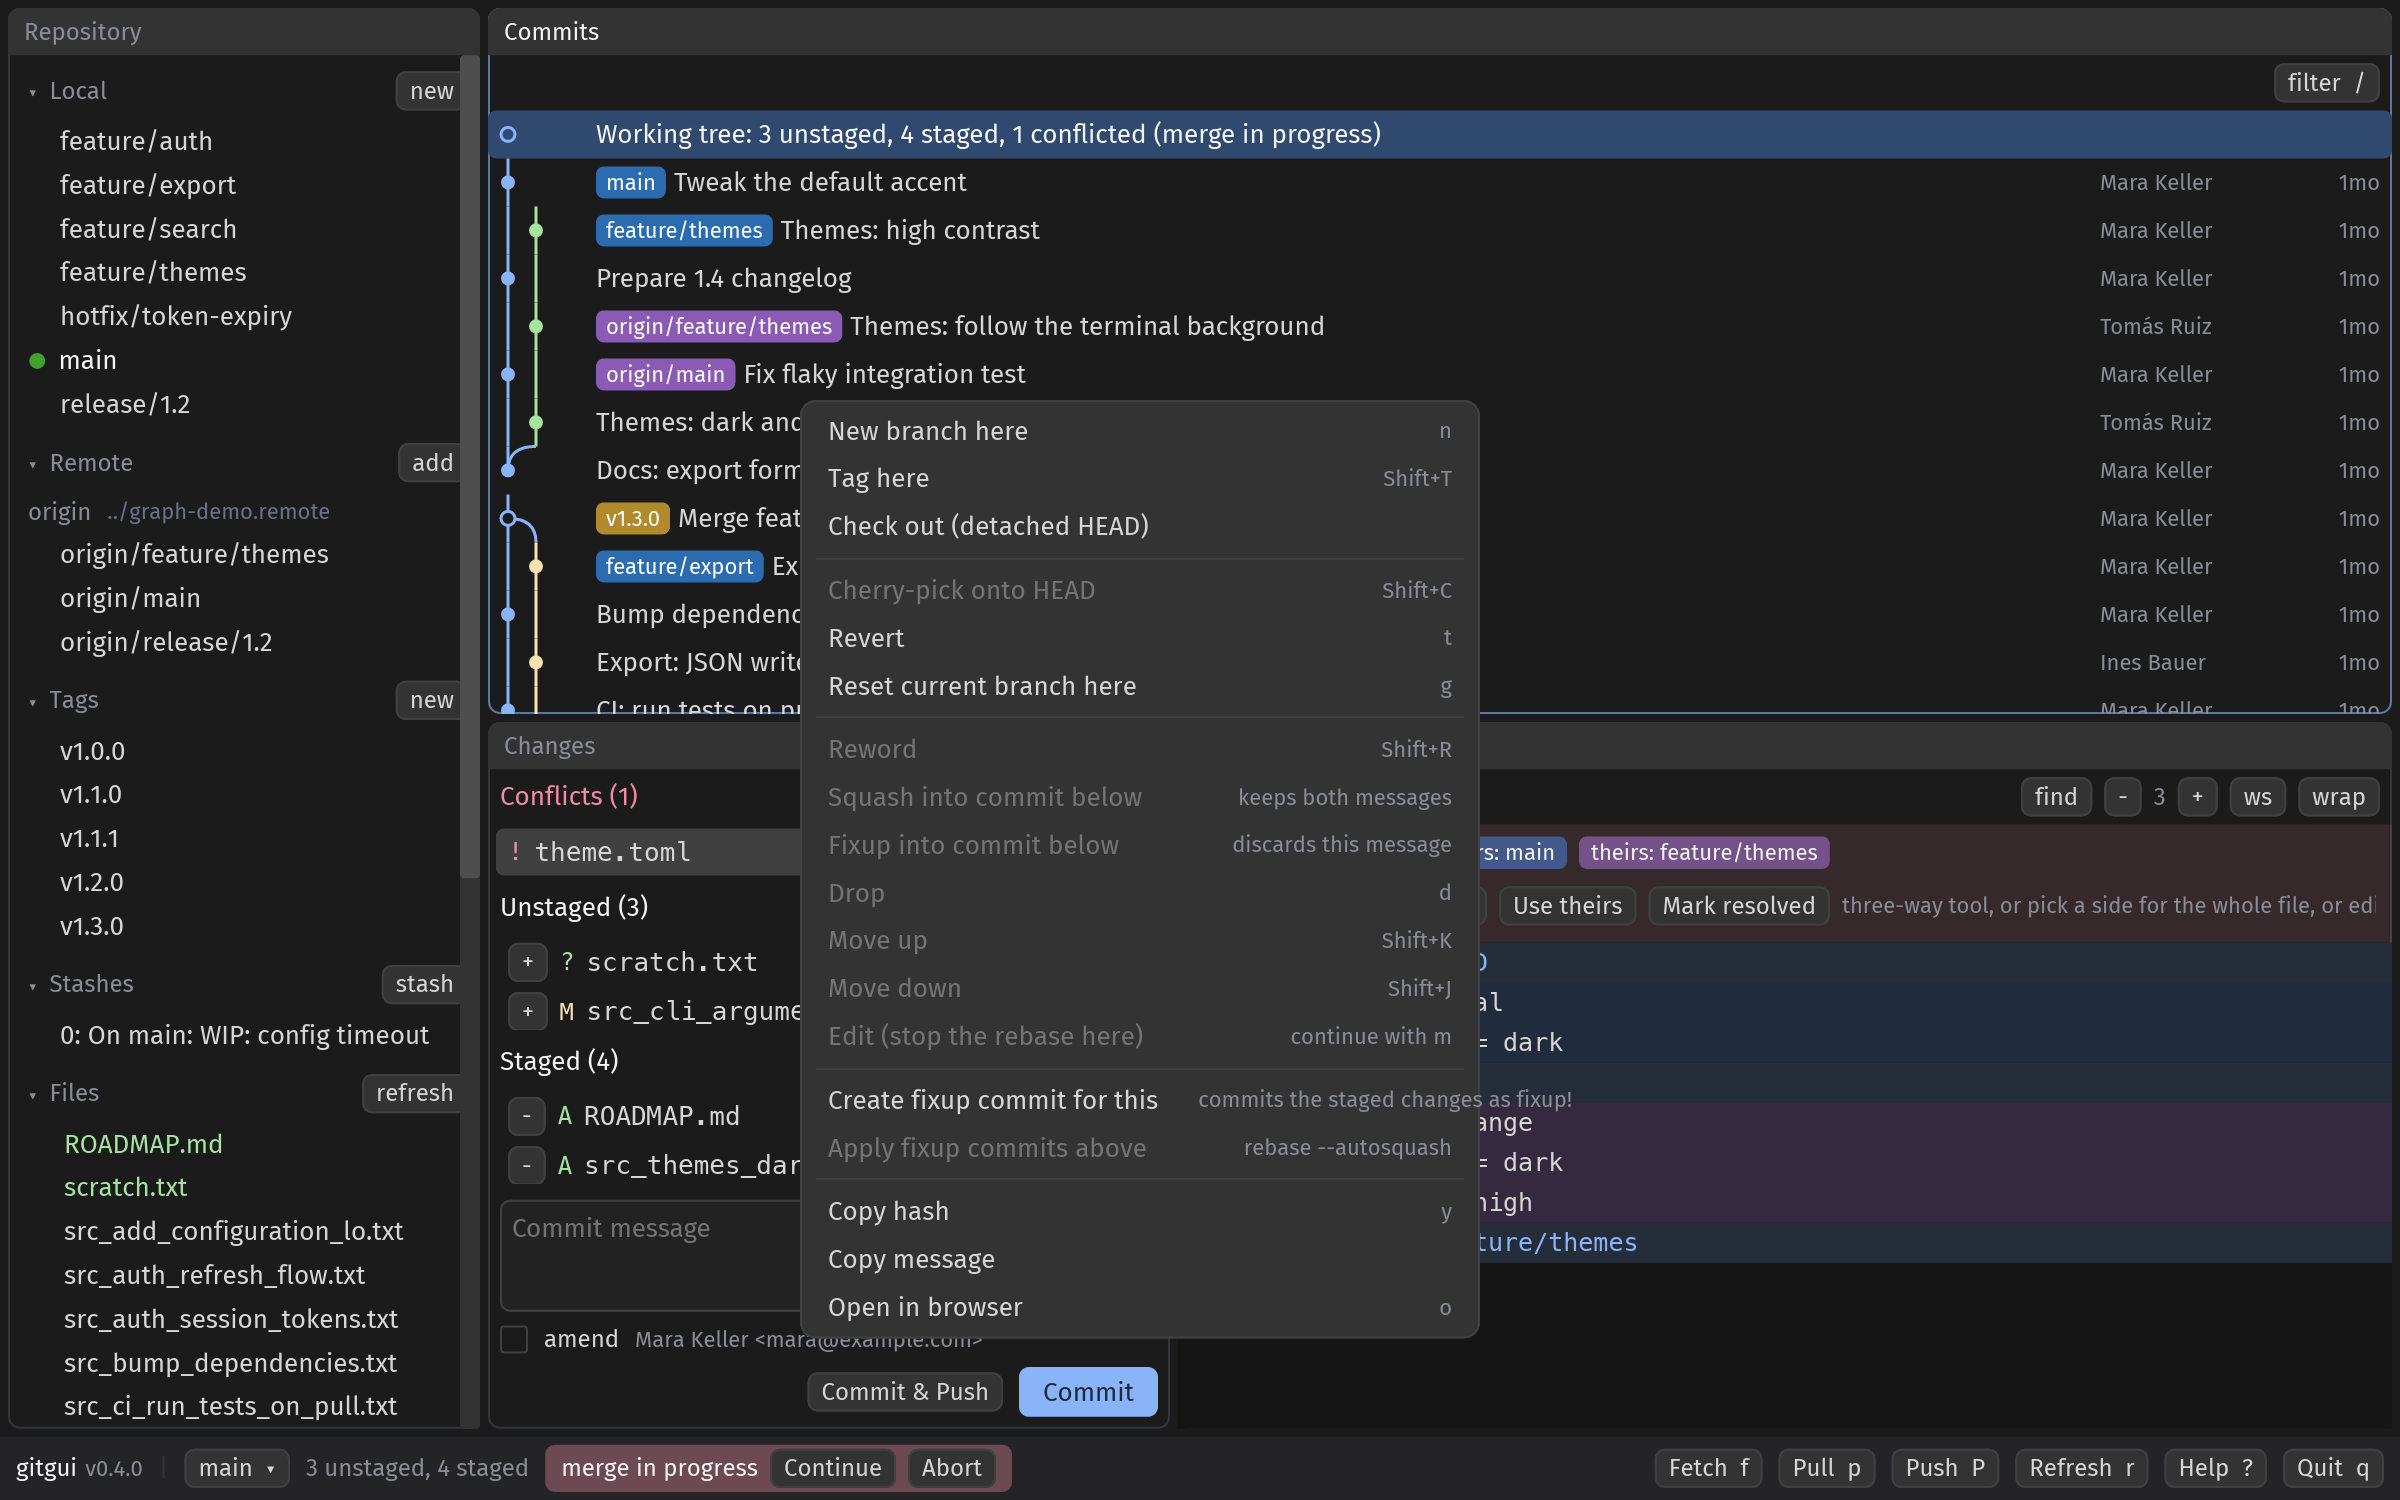
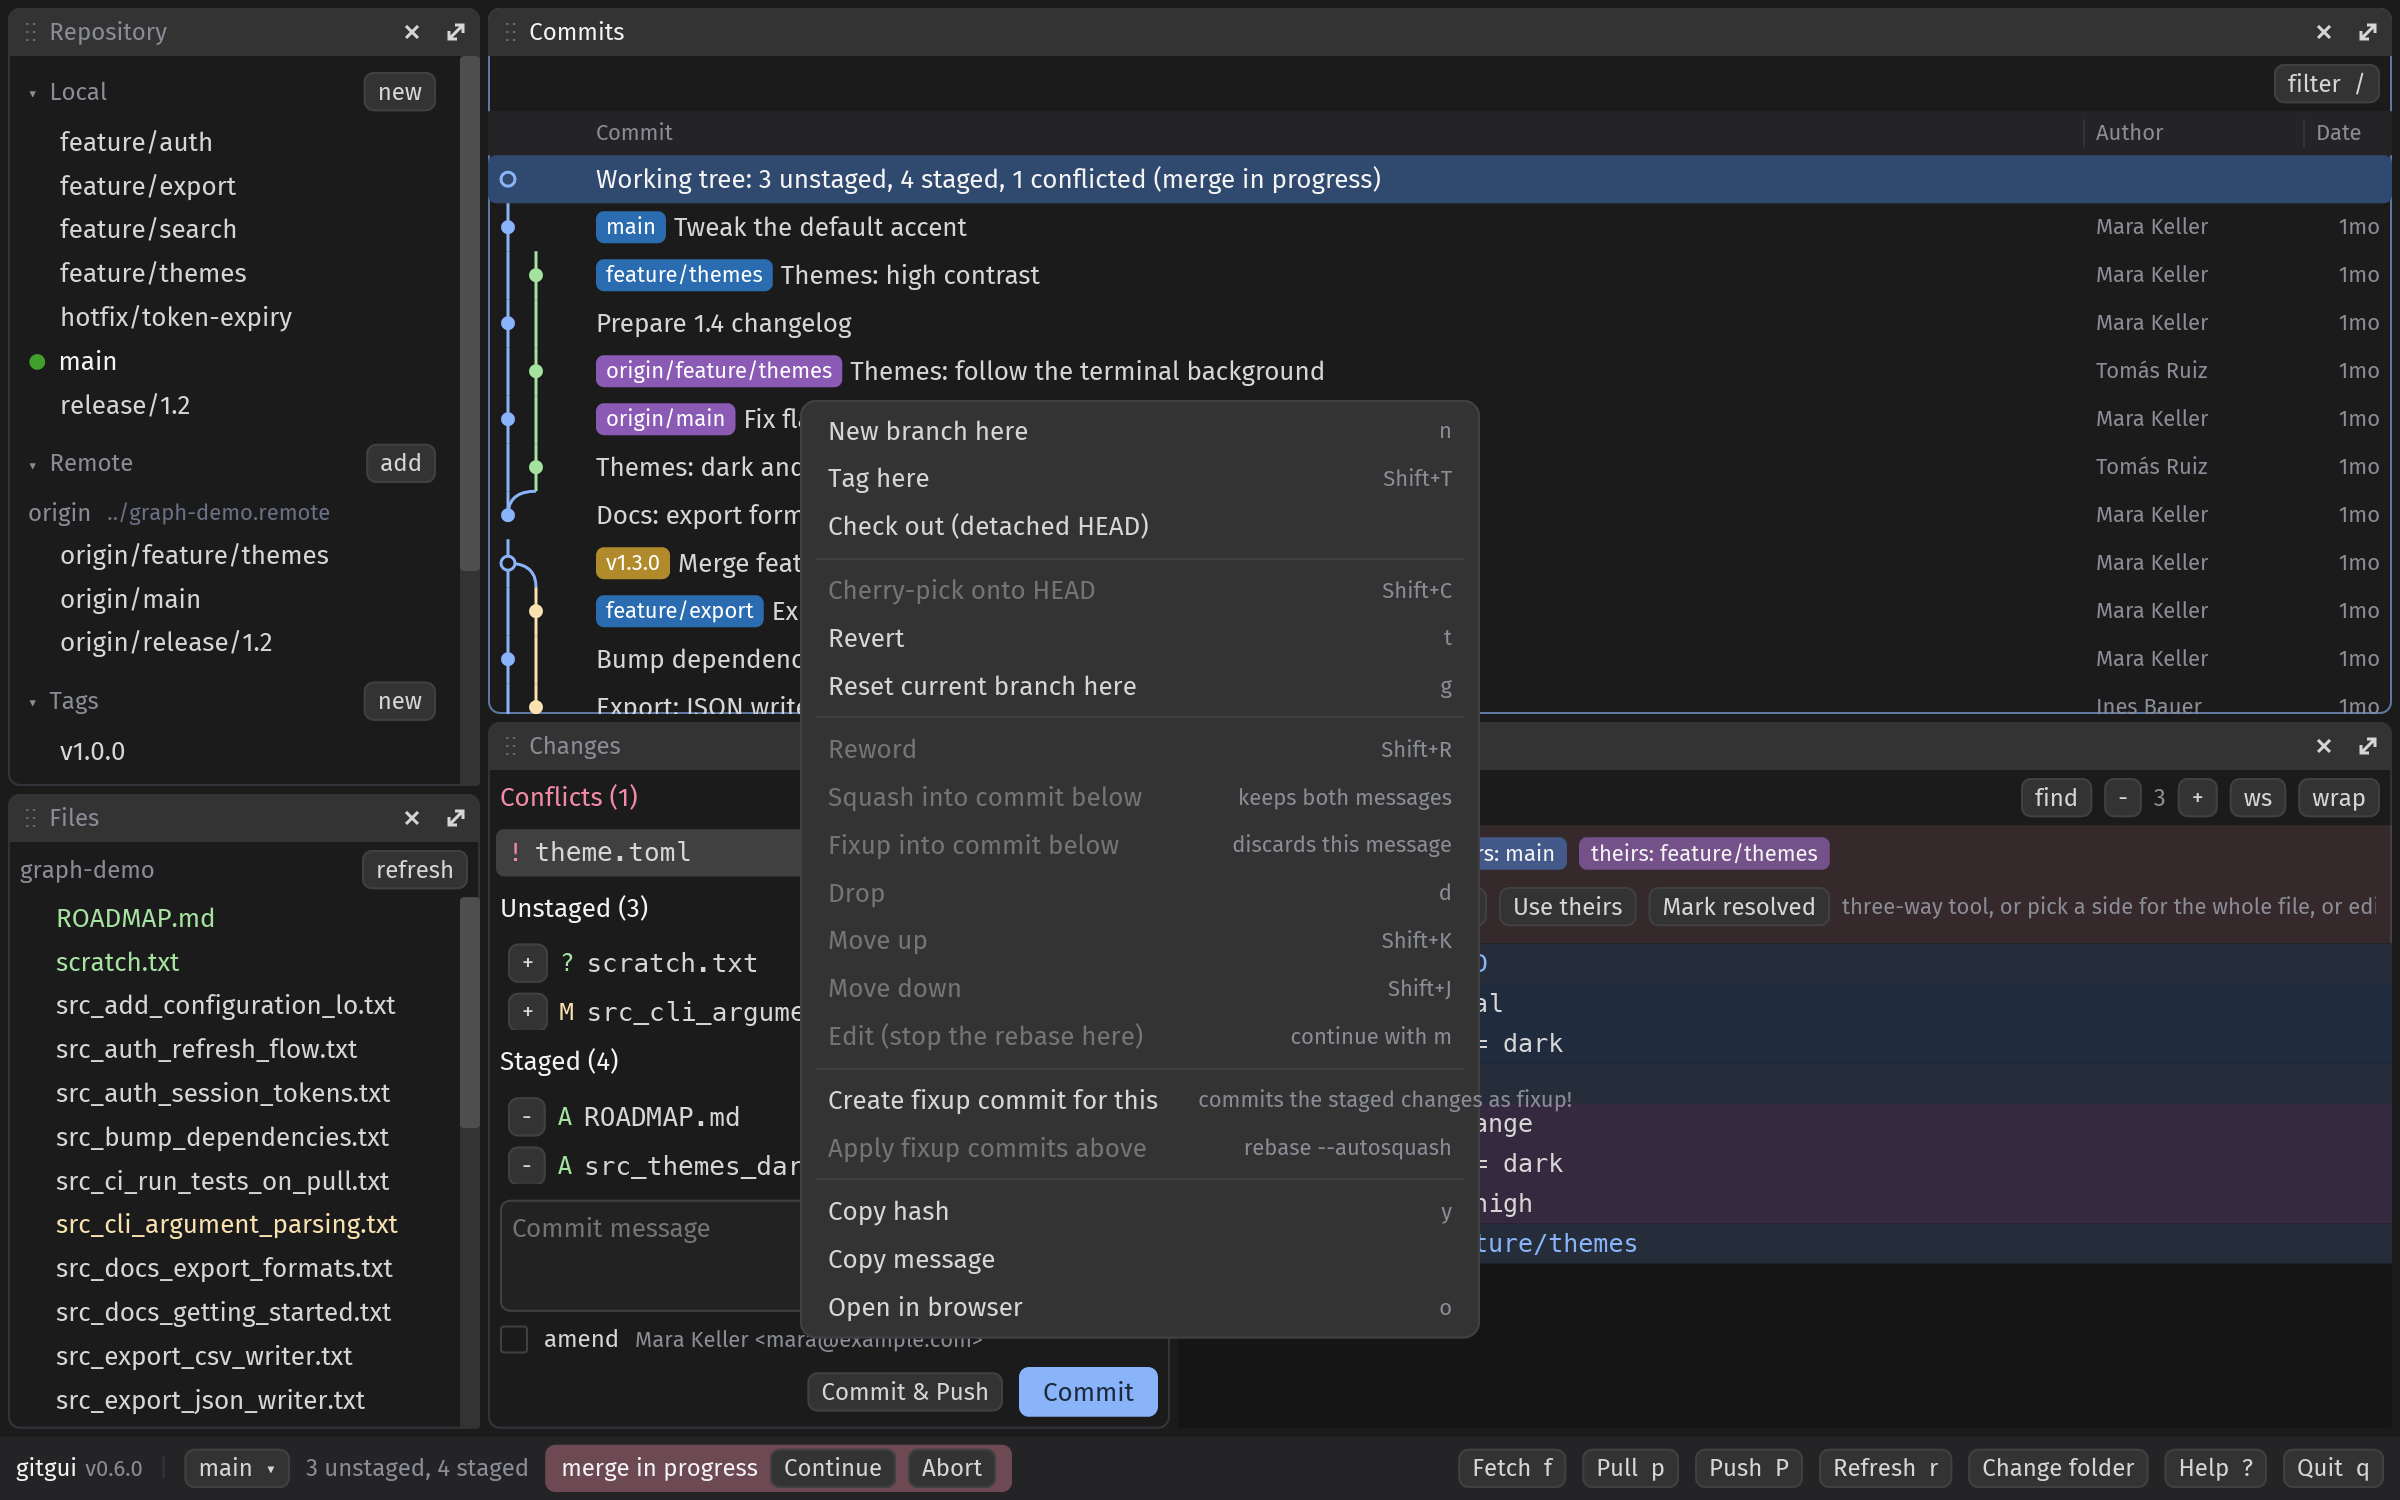
gitgui post and about: v0.6.0, desktop window, change folder, zoom, SHA-256, fresh screenshots
Claude-Session: https://claude.ai/code/session_011ak2ZgYRPpixbo5bA8djrH

diff --git a/_posts/2026-09-03-gitgui-terminal-git-gui-cmux-pi.md b/_posts/2026-09-03-gitgui-terminal-git-gui-cmux-pi.md
@@ -4,8 +4,8 @@ title: "gitgui: a real git GUI inside cmux, next to Pi"
 date: 2026-09-03
 categories: [How-To]
 tags: [gitgui, cmux, Pi Agent, Git, Rust, iced, kitty graphics, macOS, Agentic AI]
-excerpt: "I wanted a Sourcetree-class git GUI in the same cmux window as my coding agent. gitgui v0.4.0 renders pixels in the terminal with Rust and iced: draggable panes, a three-way conflict resolver, a code editor, history rewriting. Pi drives it over a Unix socket."
-last_modified_at: 2026-09-06
+excerpt: "I wanted a Sourcetree-class git GUI in the same cmux window as my coding agent. gitgui v0.6.0 renders pixels in the terminal with Rust and iced: draggable panes, a three-way conflict resolver, a code editor, history rewriting, and a desktop window wherever the terminal has no graphics. Pi drives it over a Unix socket."
+last_modified_at: 2026-09-07
 render_with_liquid: false
 ---
 
@@ -15,9 +15,9 @@ Pi runs `git status` and `git diff` fine. You still lose the commit graph, the s
 
 So I built [gitgui](https://github.com/antonellof/gitgui), one Rust binary that paints a GUI into your terminal pane with the [kitty graphics protocol](https://sw.kovidgoyal.net/kitty/graphics-protocol/). Pixels, not a TUI. Graph, sidebar, diff viewer, commit box, editor, conflict resolver. cmux, Ghostty, kitty, WezTerm. Over SSH it sends zlib plus base64 frames.
 
-*Updated 2026-09-06 for v0.4.0: the UI moved from egui to [iced](https://iced.rs), the panes drag and resize, and merge conflicts get a three-way resolver.*
+*Updated 2026-09-07 for v0.6.0: the UI moved from egui to [iced](https://iced.rs), the panes drag, resize and hide, merge conflicts get a three-way resolver, the layout is remembered per repository, and the same binary opens a desktop window in terminals without kitty graphics. Plus a folder switcher, zoom keys and SHA-256 repositories.*
 
-This is my daily layout: the agent on the left, gitgui v0.4.0 on the right, same cmux workspace, same checkout.
+This is my daily layout: the agent on the left, gitgui v0.6.0 on the right, same cmux workspace, same checkout.
 
 ![gitgui in a cmux split next to Claude Code: repository sidebar, commit graph with branch lanes, changes and diff](/assets/images/posts/gitgui-cmux-claude.png)
 
@@ -26,7 +26,7 @@ cmux + agent + gitgui = 😍
 
 On a repo with branches, tags, a stash and a merge stopped on a conflict it looks like this:
 
-![gitgui v0.4.0: repository sidebar, commit graph with branch lanes, changes with a conflict, diff with the conflict banner](/assets/images/posts/gitgui-panes.png)
+![gitgui v0.6.0: repository sidebar, file tree, commit graph with branch lanes, changes with a conflict, diff with the conflict banner](/assets/images/posts/gitgui-panes.png)
 
 ## Why stay inside the terminal?
 
@@ -44,9 +44,9 @@ Three steps:
 
 Your terminal never prints UI text. It shows a picture. Locally frames go through POSIX shared memory. On my Mac a 1600×1000 frame at 2x costs about 6 ms.
 
-## What you get in v0.4.0
+## What you get in v0.6.0
 
-- **Panes you arrange**: repository, commits, changes and diff on an iced pane grid. Drag a title bar to move a pane, drag the gaps to resize, maximize with a click or `1` to `4`.
+- **Panes you arrange**: repository, files, commits, changes and diff on an iced pane grid. Drag a title bar to move a pane, drag the gaps to resize, maximize with the arrows or `1` to `5`, hide a pane with its x and bring it back from the footer. The commit list's columns resize from the header. The layout, hidden panes, collapsed sections and zoom are saved per repository in `.git/gitgui.json` and come back on the next start.
 - **Commit graph** with branch lanes, ref pills, filter by summary, author or hash.
 - **Staging by file, hunk or line**: click, Shift+click or drag lines in the diff, then Stage or Discard just those. Search in the diff, adjust context, ignore whitespace, wrap.
 - **Three-way conflict resolver**: ours, result, theirs side by side with per-conflict take-left, take-right, keep-both, drop buttons, accept-all, edit the result, apply and mark resolved. Conflicted files also get a banner with whole-file ours / theirs.
@@ -61,6 +61,8 @@ Your terminal never prints UI text. It shows a picture. Locally frames go throug
 ![Built-in editor with syntax colors next to the repository sidebar](/assets/images/posts/gitgui-editor.png)
 
 - **Merge and rebase state** in the footer with continue / abort / skip.
+- **Change folder** from the footer or `Ctrl+O`: a folder dialog with git repositories marked, so one gitgui pane follows you across projects. Zoom with `Ctrl+=` / `Ctrl+-`.
+- **SHA-256 repositories** (`git init --object-format=sha256`) open, diff and commit like any other; libgit2 is built with its SHA-256 support.
 - **Branch switcher**, publish to GitHub through `gh`, initialize a non-git folder, auto refresh every 2 s when the repo changes.
 - **Agent socket**: `gitgui ls`, `gitgui action '{"cmd":"status"}'`, so Pi or Cursor query status, select commits, stage paths, fetch, push, or save a PNG screenshot.
 
@@ -68,9 +70,17 @@ Your terminal never prints UI text. It shows a picture. Locally frames go throug
 
 Keys are single letters and Ctrl combinations terminals do not steal. cmux keeps Cmd+*. `?` lists them all. Quit with q or Ctrl+C, or click Quit in the footer.
 
+## And outside cmux: a desktop window
+
+Not every terminal speaks kitty graphics. Terminal.app, iTerm2, the VS Code terminal, tmux. Since v0.6.0 the same binary notices that and opens a native window instead, still the same iced UI and the same tiny-skia renderer, through winit and softbuffer, no GPU. `gitgui --window` forces it, and `scripts/bundle-macos.sh` wraps it as `gitgui.app` with the logo as its icon, so it also launches from Finder. Started outside a repository it shows the logo and a Change folder button.
+
+![gitgui as a desktop window: the opening screen with the logo, Initialize and Change folder buttons](/assets/images/posts/gitgui-desktop.png)
+
+The terminal split, cmux's file preview and agent screenshots stay terminal-only; keys, panes, the state file and the agent socket work the same.
+
 ## Install
 
-You need macOS or Linux and a kitty-graphics terminal.
+You need macOS or Linux. In a kitty-graphics terminal gitgui draws into the pane; anywhere else it opens a desktop window.
 
 Quick start:
 
@@ -89,7 +99,7 @@ bash scripts/install.sh
 Pin a release:
 
 ```bash
-GITGUI_VERSION=0.4.0 bash scripts/install.sh
+GITGUI_VERSION=0.6.0 bash scripts/install.sh
 ```
 
 The script pulls a release binary when GitHub has one. Otherwise it builds from source with cargo (Rust 1.95+). Success looks like:
@@ -164,7 +174,7 @@ git worker uses libgit2 for reads and index writes. fetch, pull, and push shell 
 
 The UI reads an immutable RepoSnapshot. The worker swaps in a new snapshot after each command. Rendering never calls git.
 
-iced 0.14 (`iced_core`, `iced_runtime`, `iced_widget`, `iced_renderer` on tiny-skia, no winit), git2, libc for termios and shm, serde for the agent API. No Electron. No GPU backend. No tokio. Spec and protocol bytes live in [docs/SPEC.md](https://github.com/antonellof/gitgui/blob/main/docs/SPEC.md) and [docs/PROTOCOLS.md](https://github.com/antonellof/gitgui/blob/main/docs/PROTOCOLS.md).
+iced 0.14 (`iced_core`, `iced_runtime`, `iced_widget`, `iced_renderer` on tiny-skia; the `iced` umbrella crate with winit only for the window mode), git2 with libgit2's SHA-256 support, libc for termios and shm, serde for the agent API. No Electron. No GPU backend. No tokio. Spec and protocol bytes live in [docs/SPEC.md](https://github.com/antonellof/gitgui/blob/main/docs/SPEC.md) and [docs/PROTOCOLS.md](https://github.com/antonellof/gitgui/blob/main/docs/PROTOCOLS.md).
 
 ## One refactor, start to finish
 
@@ -178,7 +188,7 @@ cmux still rings when Pi waits on you. Mouse clicks hit the right widgets. SSH s
 
 ## What it still skips
 
-cmux and Ghostty are the main targets. kitty works. tmux and Zellij need graphics passthrough and fail today.
+cmux and Ghostty are the main targets. kitty works. tmux and Zellij do not pass kitty graphics through; there, and in any terminal without them, gitgui opens its desktop window instead of drawing into the pane.
 
 Ghostty on macOS has no stable split-from-child API. `gitgui --split` prints a keybind hint and runs in the current pane when needed.
 

diff --git a/about.md b/about.md
@@ -52,7 +52,7 @@ This blog is where I share my experiences and learnings in software architecture
 
 - **[Cognitora inference](https://github.com/antonellof/cognitora-inference)** - Open-source, datacenter-scale LLM orchestration above vLLM, SGLang, TensorRT-LLM, and llama.cpp: KV-aware routing, prefill/decode disaggregation, multi-tier KV cache, static Rust binaries for bare metal, Kubernetes, or cloud.
 
-- **[gitgui](https://github.com/antonellof/gitgui)** - A git GUI that runs inside the terminal, next to your coding agent. One Rust binary paints an iced interface as pixels into a cmux, Ghostty or kitty pane over the kitty graphics protocol: commit graph, staging by file, hunk or line, a three-way conflict resolver, history rewriting, a built-in editor, draggable panes, and a socket so agents like Pi drive it. Write-up: *[gitgui: a real git GUI inside cmux, next to Pi](/2026/gitgui-terminal-git-gui-cmux-pi/)*.
+- **[gitgui](https://github.com/antonellof/gitgui)** - A git GUI that runs inside the terminal, next to your coding agent. One Rust binary paints an iced interface as pixels into a cmux, Ghostty or kitty pane over the kitty graphics protocol, or opens a desktop window where the terminal has no graphics: commit graph, staging by file, hunk or line, a three-way conflict resolver, history rewriting, a built-in editor, draggable panes, and a socket so agents like Pi drive it. Write-up: *[gitgui: a real git GUI inside cmux, next to Pi](/2026/gitgui-terminal-git-gui-cmux-pi/)*.
 
 - **[Rondine](https://github.com/antonellof/rondine)** 🐦 - Hardware-aware local LLM launcher. Detects the machine, picks a model that fits, and applies tuned configs for Mac, NVIDIA GPUs and DGX Spark instead of leaving you to do flag archaeology. Write-up: *[Rondine: hardware-aware local LLM serving](/2026/rondine-hardware-aware-local-llm-launcher/)*.
 
